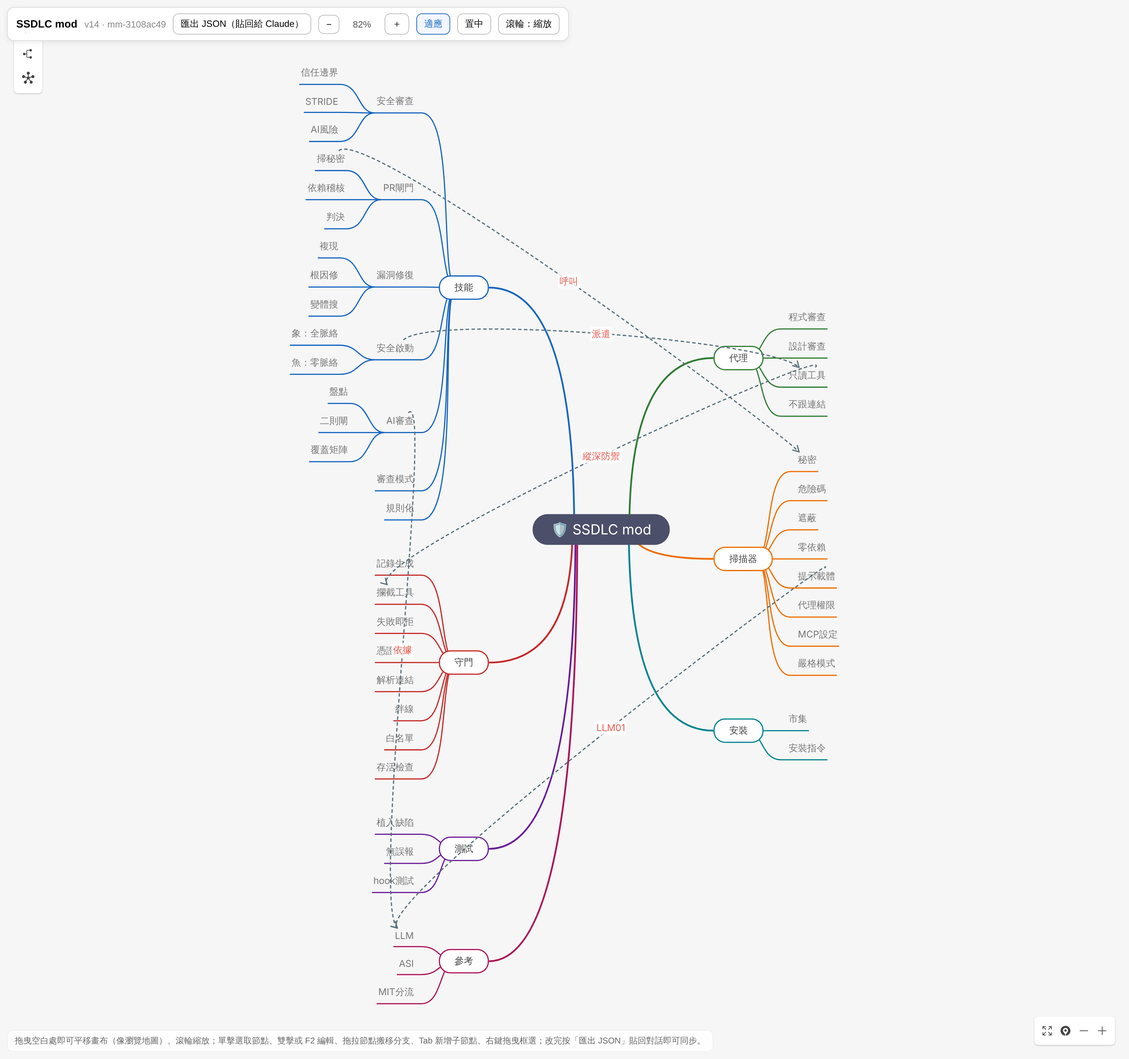
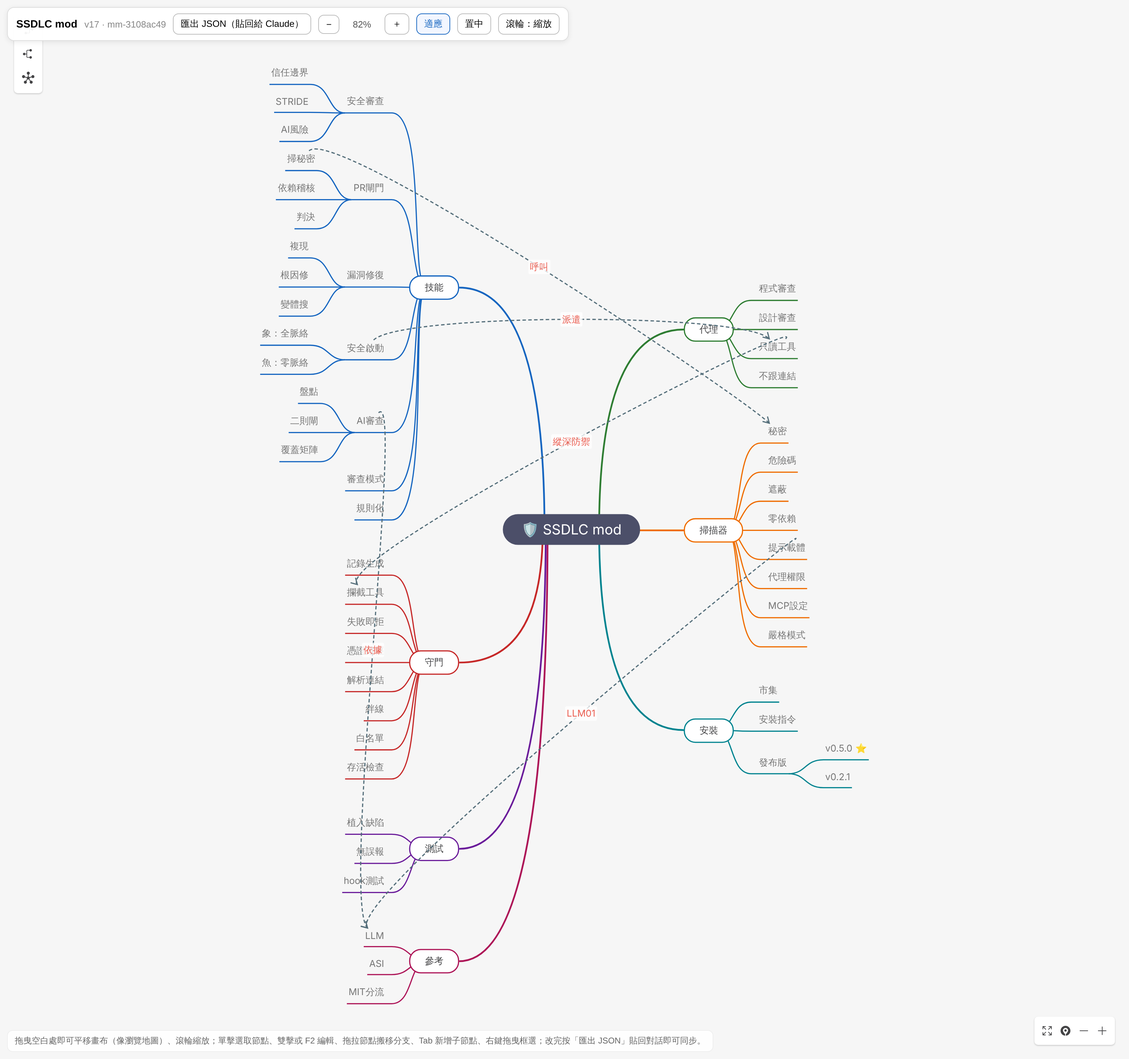
docs(mindmap): Releases node under Install (v0.5.0 latest, v0.2.1)
Node-level adds (i3, i3a, i3b) in both the Chinese and English state files;
HTML re-rendered, PNGs re-captured at fit-to-view.

Claude-Session: https://claude.ai/code/session_01R1ma2KKoemvTgjSD3ke2JF

diff --git a/docs/ssdlc-mindmap.html b/docs/ssdlc-mindmap.html
@@ -31,7 +31,7 @@
 </head>
 <body>
 <div id="topbar">
-  <b>SSDLC mod</b><span class="ver">v14 · mm-3108ac49</span>
+  <b>SSDLC mod</b><span class="ver">v17 · mm-3108ac49</span>
   <button onclick="exportFlat()">匯出 JSON（貼回給 Claude）</button>
   <button onclick="zoomStep(-1)" title="縮小">−</button><span id="zoompct" style="min-width:44px;text-align:center;color:#555;">100%</span><button onclick="zoomStep(1)" title="放大">＋</button>
   <button onclick="mind.scaleFit()" title="整張圖縮放至可視範圍">適應</button>
@@ -61,10 +61,10 @@ var MindElixir=(function(I){"use strict";const ee={name:"Latte",type:"light",pal
 
 </script>
 <script>
-const DATA = {"nodeData": {"id": "root", "topic": "🛡 SSDLC mod", "root": true, "expanded": true, "style": {"fontSize": "24px"}, "children": [{"id": "s", "topic": "技能", "expanded": true, "branchColor": "#1565C0", "children": [{"id": "s1", "topic": "安全審查", "expanded": true, "note": "/ssdlc:security-review — 10 段檢查表", "children": [{"id": "s1a", "topic": "信任邊界", "expanded": true}, {"id": "s1b", "topic": "STRIDE", "expanded": true}, {"id": "s1c", "topic": "AI風險", "expanded": true}]}, {"id": "s2", "topic": "PR閘門", "expanded": true, "note": "/ssdlc:security-gate", "children": [{"id": "s2a", "topic": "掃秘密", "expanded": true}, {"id": "s2b", "topic": "依賴稽核", "expanded": true}, {"id": "s2c", "topic": "判決", "expanded": true, "note": "PASS / WARN / BLOCK"}]}, {"id": "s3", "topic": "漏洞修復", "expanded": true, "note": "/ssdlc:vuln-fix", "children": [{"id": "s3a", "topic": "複現", "expanded": true}, {"id": "s3b", "topic": "根因修", "expanded": true}, {"id": "s3c", "topic": "變體搜", "expanded": true}]}, {"id": "s4", "topic": "安全啟動", "expanded": true, "note": "/ssdlc:safe-bootstrap — EGM 唯讀版", "children": [{"id": "s4a", "topic": "象：全脈絡", "expanded": true}, {"id": "s4b", "topic": "魚：零脈絡", "expanded": true}]}, {"id": "s5", "topic": "AI審查", "expanded": true, "note": "/ssdlc:ai-security-review — LLM01–10:2026、ASI01–10、MIT 因果格、覆蓋矩陣", "children": [{"id": "s5a", "topic": "盤點", "expanded": true}, {"id": "s5b", "topic": "二則閘", "expanded": true, "note": "Rule of Two：不可信輸入 × 機敏資料 × 改變狀態"}, {"id": "s5c", "topic": "覆蓋矩陣", "expanded": true}]}, {"id": "s6", "topic": "審查模式", "expanded": true, "note": "一般訊息 ssdlc review-mode on|off|status（終端機也可用 /ssdlc-review-mode）：主 session 只允許精確命令形式、無網路、寫檔限報告、只派 ssdlc 審查員；只有人能關閉"}, {"id": "s7", "topic": "規則化", "expanded": true, "note": "/ssdlc:rule-from-finding：確認的發現 → 規則＋植入缺陷＋安全對照＋測試（飛輪）"}]}, {"id": "a", "topic": "代理", "expanded": true, "branchColor": "#2E7D32", "children": [{"id": "a1", "topic": "程式審查", "expanded": true, "note": "ssdlc:security-reviewer"}, {"id": "a2", "topic": "設計審查", "expanded": true, "note": "ssdlc:design-reviewer"}, {"id": "a3", "topic": "只讀工具", "expanded": true, "note": "Read, Grep, Glob"}, {"id": "a4", "topic": "不跟連結", "expanded": true, "note": "repo 外連結只列出不開啟"}]}, {"id": "h", "topic": "守門", "expanded": true, "branchColor": "#C62828", "children": [{"id": "h1", "topic": "記錄生成", "expanded": true, "note": "agent.spawn：記下 ssdlc:*reviewer 的 agentId"}, {"id": "h2", "topic": "攔截工具", "expanded": true, "note": "tool.call：非 Read/Grep/Glob 一律 deny"}, {"id": "h3", "topic": "失敗即拒", "expanded": true, "note": ".catch → fail closed"}, {"id": "h4", "topic": "憑證路徑", "expanded": true, "note": "~/.ssh、~/.aws、.env*、金鑰檔；含 glob（ASI03、LLM02:2026）"}, {"id": "h5", "topic": "解析連結", "expanded": true, "note": "$.fs.stat realPath，擋 repo 內指向憑證的 symlink"}, {"id": "h6", "topic": "絆線", "expanded": true, "note": "讀憑證或用禁用工具＝tripwire → 主 session 下一個工具結果附警報 → 判 BLOCK；guard_log 可查"}, {"id": "h7", "topic": "白名單", "expanded": true, "note": "v0.4.0：審查員只能讀派遣 prompt 指名的路徑（無則工作目錄）＋ plugin 目錄"}, {"id": "h8", "topic": "存活檢查", "expanded": true, "note": "v0.5.0：guard_log 回報版本與規則自我檢查；技能派審查員前先確認，失敗即 INCOMPLETE；跨 session 歷史"}]}, {"id": "g", "topic": "掃描器", "expanded": true, "branchColor": "#EF6C00", "children": [{"id": "g1", "topic": "秘密", "expanded": true, "note": "AWS/GitHub/Anthropic/Slack/私鑰/硬編碼"}, {"id": "g2", "topic": "危險碼", "expanded": true, "note": "shell/eval/pickle/SQL/TLS/MD5"}, {"id": "g3", "topic": "遮蔽", "expanded": true, "note": "只顯示前 4 字元"}, {"id": "g4", "topic": "零依賴", "expanded": true, "note": "標準庫、不連網"}, {"id": "g5", "topic": "提示載體", "expanded": true, "note": "Unicode tag 隱寫（解碼）、零寬／bidi（LLM01:2026）"}, {"id": "g6", "topic": "代理權限", "expanded": true, "note": "bypassPermissions、autoApprove、萬用清單、REPL 工具（LLM03:2026、ASI02/05）"}, {"id": "g7", "topic": "MCP設定", "expanded": true, "note": "未鎖版本、內嵌密鑰、明文傳輸（ASI04/07）"}, {"id": "g8", "topic": "嚴格模式", "expanded": true, "note": "allow 標記預設忽略（--honor-markers 才採用，永不隱藏 secret／隱形字元）；skipped 皆列報，結束碼 3＝INCOMPLETE"}]}, {"id": "t", "topic": "測試", "expanded": true, "branchColor": "#6A1B9A", "children": [{"id": "t1", "topic": "植入缺陷", "expanded": true, "note": "53 個單元測試：每條規則皆有植入缺陷與安全對照、審查回歸測試"}, {"id": "t2", "topic": "無誤報", "expanded": true}, {"id": "t3", "topic": "hook測試", "expanded": true, "note": "28 個 hook 測試：守門、白名單、審查模式、tripwire、存活檢查、歷史"}]}, {"id": "i", "topic": "安裝", "expanded": true, "branchColor": "#00838F", "children": [{"id": "i1", "topic": "市集", "expanded": true, "note": "joescoffee/ssdlc-mod"}, {"id": "i2", "topic": "安裝指令", "expanded": true, "note": "/plugin install ssdlc --marketplace joescoffee/ssdlc-mod"}]}, {"id": "r", "topic": "參考", "expanded": true, "branchColor": "#AD1457", "children": [{"id": "r1", "topic": "LLM", "expanded": true, "note": "OWASP Top 10 for LLM Applications 2026（CC BY-SA 4.0）"}, {"id": "r2", "topic": "ASI", "expanded": true, "note": "OWASP Top 10 for Agentic Applications 2026（CC BY-SA 4.0）"}, {"id": "r3", "topic": "MIT分流", "expanded": true, "note": "AI Risk Repository V4：24 子域 A/B/C、因果情境格（CC BY 4.0）"}]}]}, "arrows": [{"id": "arrow0", "label": "派遣", "from": "s4", "to": "a3", "delta1": {"x": 60, "y": -60}, "delta2": {"x": -60, "y": -60}, "style": {"stroke": "#546E7A", "strokeDasharray": "6 4", "strokeWidth": 2}}, {"id": "arrow1", "label": "縱深防禦", "from": "a3", "to": "h2", "delta1": {"x": 60, "y": -60}, "delta2": {"x": -60, "y": -60}, "style": {"stroke": "#546E7A", "strokeDasharray": "6 4", "strokeWidth": 2}}, {"id": "arrow2", "label": "呼叫", "from": "s2a", "to": "g1", "delta1": {"x": 60, "y": -60}, "delta2": {"x": -60, "y": -60}, "style": {"stroke": "#546E7A", "strokeDasharray": "6 4", "strokeWidth": 2}}, {"id": "arrow3", "label": "依據", "from": "s5", "to": "r1", "delta1": {"x": 60, "y": -60}, "delta2": {"x": -60, "y": -60}, "style": {"stroke": "#546E7A", "strokeDasharray": "6 4", "strokeWidth": 2}}, {"id": "arrow4", "label": "LLM01", "from": "g5", "to": "r1", "delta1": {"x": 60, "y": -60}, "delta2": {"x": -60, "y": -60}, "style": {"stroke": "#546E7A", "strokeDasharray": "6 4", "strokeWidth": 2}}], "direction": 2, "theme": {"name": "mindmap-skill", "type": "light", "palette": ["#1565C0", "#2E7D32", "#C62828", "#EF6C00", "#6A1B9A", "#00838F", "#AD1457"]}};
-const META = {"map_id": "mm-3108ac49", "title": "SSDLC mod", "central_image": "🛡", "mode": "bloom", "version": 14, "created": "2026-11-01T04:54:12+00:00", "id_seq": 0, "updated": "2026-11-01T12:05:33+00:00"};
-const HISTORY = [{"v": 1, "action": "new", "ids": ["root"], "at": "2026-11-01T04:54:12+00:00"}, {"v": 2, "action": "apply(40)", "ids": ["s", "s1", "s1a", "s1b", "s1c", "s2", "s2a", "s2b", "s2c", "s3", "s3a", "s3b", "s3c", "s4", "s4a", "s4b", "a", "a1", "a2", "a3", "a4", "h", "h1", "h2", "h3", "g", "g1", "g2", "g3", "g4", "t", "t1", "t2", "t3", "i", "i1", "i2", "s4->a3", "a3->h2", "s2a->g1"], "at": "2026-11-01T04:54:12+00:00"}, {"v": 3, "action": "update", "ids": ["i2"], "at": "2026-11-01T04:54:16+00:00"}, {"v": 4, "action": "apply(16)", "ids": ["s5", "s5a", "s5b", "s5c", "h4", "h5", "g5", "g6", "g7", "g8", "r", "r1", "r2", "r3", "s5->r1", "g5->r1"], "at": "2026-11-01T05:47:18+00:00"}, {"v": 5, "action": "update", "ids": ["t1"], "at": "2026-11-01T05:47:18+00:00"}, {"v": 6, "action": "update", "ids": ["t3"], "at": "2026-11-01T05:47:18+00:00"}, {"v": 7, "action": "update", "ids": ["r1"], "at": "2026-11-01T05:47:27+00:00"}, {"v": 8, "action": "update", "ids": ["r2"], "at": "2026-11-01T05:47:27+00:00"}, {"v": 9, "action": "apply(3)", "ids": ["s6", "s7", "h6"], "at": "2026-11-01T06:12:50+00:00"}, {"v": 10, "action": "apply(2)", "ids": ["h7", "h8"], "at": "2026-11-01T09:21:57+00:00"}, {"v": 11, "action": "update", "ids": ["t1"], "at": "2026-11-01T12:05:33+00:00"}, {"v": 12, "action": "update", "ids": ["t3"], "at": "2026-11-01T12:05:33+00:00"}, {"v": 13, "action": "update", "ids": ["g8"], "at": "2026-11-01T12:05:33+00:00"}, {"v": 14, "action": "update", "ids": ["s6"], "at": "2026-11-01T12:05:33+00:00"}];
-const SOURCE_MAP = {};
+const DATA = {"nodeData": {"id": "root", "topic": "🛡 SSDLC mod", "root": true, "expanded": true, "style": {"fontSize": "24px"}, "children": [{"id": "s", "topic": "技能", "expanded": true, "branchColor": "#1565C0", "children": [{"id": "s1", "topic": "安全審查", "expanded": true, "note": "/ssdlc:security-review — 10 段檢查表", "children": [{"id": "s1a", "topic": "信任邊界", "expanded": true}, {"id": "s1b", "topic": "STRIDE", "expanded": true}, {"id": "s1c", "topic": "AI風險", "expanded": true}]}, {"id": "s2", "topic": "PR閘門", "expanded": true, "note": "/ssdlc:security-gate", "children": [{"id": "s2a", "topic": "掃秘密", "expanded": true}, {"id": "s2b", "topic": "依賴稽核", "expanded": true}, {"id": "s2c", "topic": "判決", "expanded": true, "note": "PASS / WARN / BLOCK"}]}, {"id": "s3", "topic": "漏洞修復", "expanded": true, "note": "/ssdlc:vuln-fix", "children": [{"id": "s3a", "topic": "複現", "expanded": true}, {"id": "s3b", "topic": "根因修", "expanded": true}, {"id": "s3c", "topic": "變體搜", "expanded": true}]}, {"id": "s4", "topic": "安全啟動", "expanded": true, "note": "/ssdlc:safe-bootstrap — EGM 唯讀版", "children": [{"id": "s4a", "topic": "象：全脈絡", "expanded": true}, {"id": "s4b", "topic": "魚：零脈絡", "expanded": true}]}, {"id": "s5", "topic": "AI審查", "expanded": true, "note": "/ssdlc:ai-security-review — LLM01–10:2026、ASI01–10、MIT 因果格、覆蓋矩陣", "children": [{"id": "s5a", "topic": "盤點", "expanded": true}, {"id": "s5b", "topic": "二則閘", "expanded": true, "note": "Rule of Two：不可信輸入 × 機敏資料 × 改變狀態"}, {"id": "s5c", "topic": "覆蓋矩陣", "expanded": true}]}, {"id": "s6", "topic": "審查模式", "expanded": true, "note": "一般訊息 ssdlc review-mode on|off|status（終端機也可用 /ssdlc-review-mode）：主 session 只允許精確命令形式、無網路、寫檔限報告、只派 ssdlc 審查員；只有人能關閉"}, {"id": "s7", "topic": "規則化", "expanded": true, "note": "/ssdlc:rule-from-finding：確認的發現 → 規則＋植入缺陷＋安全對照＋測試（飛輪）"}]}, {"id": "a", "topic": "代理", "expanded": true, "branchColor": "#2E7D32", "children": [{"id": "a1", "topic": "程式審查", "expanded": true, "note": "ssdlc:security-reviewer"}, {"id": "a2", "topic": "設計審查", "expanded": true, "note": "ssdlc:design-reviewer"}, {"id": "a3", "topic": "只讀工具", "expanded": true, "note": "Read, Grep, Glob"}, {"id": "a4", "topic": "不跟連結", "expanded": true, "note": "repo 外連結只列出不開啟"}]}, {"id": "h", "topic": "守門", "expanded": true, "branchColor": "#C62828", "children": [{"id": "h1", "topic": "記錄生成", "expanded": true, "note": "agent.spawn：記下 ssdlc:*reviewer 的 agentId"}, {"id": "h2", "topic": "攔截工具", "expanded": true, "note": "tool.call：非 Read/Grep/Glob 一律 deny"}, {"id": "h3", "topic": "失敗即拒", "expanded": true, "note": ".catch → fail closed"}, {"id": "h4", "topic": "憑證路徑", "expanded": true, "note": "~/.ssh、~/.aws、.env*、金鑰檔；含 glob（ASI03、LLM02:2026）"}, {"id": "h5", "topic": "解析連結", "expanded": true, "note": "$.fs.stat realPath，擋 repo 內指向憑證的 symlink"}, {"id": "h6", "topic": "絆線", "expanded": true, "note": "讀憑證或用禁用工具＝tripwire → 主 session 下一個工具結果附警報 → 判 BLOCK；guard_log 可查"}, {"id": "h7", "topic": "白名單", "expanded": true, "note": "v0.4.0：審查員只能讀派遣 prompt 指名的路徑（無則工作目錄）＋ plugin 目錄"}, {"id": "h8", "topic": "存活檢查", "expanded": true, "note": "v0.5.0：guard_log 回報版本與規則自我檢查；技能派審查員前先確認，失敗即 INCOMPLETE；跨 session 歷史"}]}, {"id": "g", "topic": "掃描器", "expanded": true, "branchColor": "#EF6C00", "children": [{"id": "g1", "topic": "秘密", "expanded": true, "note": "AWS/GitHub/Anthropic/Slack/私鑰/硬編碼"}, {"id": "g2", "topic": "危險碼", "expanded": true, "note": "shell/eval/pickle/SQL/TLS/MD5"}, {"id": "g3", "topic": "遮蔽", "expanded": true, "note": "只顯示前 4 字元"}, {"id": "g4", "topic": "零依賴", "expanded": true, "note": "標準庫、不連網"}, {"id": "g5", "topic": "提示載體", "expanded": true, "note": "Unicode tag 隱寫（解碼）、零寬／bidi（LLM01:2026）"}, {"id": "g6", "topic": "代理權限", "expanded": true, "note": "bypassPermissions、autoApprove、萬用清單、REPL 工具（LLM03:2026、ASI02/05）"}, {"id": "g7", "topic": "MCP設定", "expanded": true, "note": "未鎖版本、內嵌密鑰、明文傳輸（ASI04/07）"}, {"id": "g8", "topic": "嚴格模式", "expanded": true, "note": "allow 標記預設忽略（--honor-markers 才採用，永不隱藏 secret／隱形字元）；skipped 皆列報，結束碼 3＝INCOMPLETE"}]}, {"id": "t", "topic": "測試", "expanded": true, "branchColor": "#6A1B9A", "children": [{"id": "t1", "topic": "植入缺陷", "expanded": true, "note": "53 個單元測試：每條規則皆有植入缺陷與安全對照、審查回歸測試"}, {"id": "t2", "topic": "無誤報", "expanded": true}, {"id": "t3", "topic": "hook測試", "expanded": true, "note": "28 個 hook 測試：守門、白名單、審查模式、tripwire、存活檢查、歷史"}]}, {"id": "i", "topic": "安裝", "expanded": true, "branchColor": "#00838F", "children": [{"id": "i1", "topic": "市集", "expanded": true, "note": "joescoffee/ssdlc-mod"}, {"id": "i2", "topic": "安裝指令", "expanded": true, "note": "/plugin install ssdlc --marketplace joescoffee/ssdlc-mod"}, {"id": "i3", "topic": "發布版", "expanded": true, "note": "GitHub Releases：每版中英雙語發布說明；README 徽章顯示最新版", "children": [{"id": "i3a", "topic": "v0.5.0", "expanded": true, "note": "最新版（Latest），tag 指向 004c352", "icons": ["⭐"]}, {"id": "i3b", "topic": "v0.2.1", "expanded": true, "note": "補發的歷史版本，tag 指向 9a1ff5b"}]}]}, {"id": "r", "topic": "參考", "expanded": true, "branchColor": "#AD1457", "children": [{"id": "r1", "topic": "LLM", "expanded": true, "note": "OWASP Top 10 for LLM Applications 2026（CC BY-SA 4.0）"}, {"id": "r2", "topic": "ASI", "expanded": true, "note": "OWASP Top 10 for Agentic Applications 2026（CC BY-SA 4.0）"}, {"id": "r3", "topic": "MIT分流", "expanded": true, "note": "AI Risk Repository V4：24 子域 A/B/C、因果情境格（CC BY 4.0）"}]}]}, "arrows": [{"id": "arrow0", "label": "派遣", "from": "s4", "to": "a3", "delta1": {"x": 60, "y": -60}, "delta2": {"x": -60, "y": -60}, "style": {"stroke": "#546E7A", "strokeDasharray": "6 4", "strokeWidth": 2}}, {"id": "arrow1", "label": "縱深防禦", "from": "a3", "to": "h2", "delta1": {"x": 60, "y": -60}, "delta2": {"x": -60, "y": -60}, "style": {"stroke": "#546E7A", "strokeDasharray": "6 4", "strokeWidth": 2}}, {"id": "arrow2", "label": "呼叫", "from": "s2a", "to": "g1", "delta1": {"x": 60, "y": -60}, "delta2": {"x": -60, "y": -60}, "style": {"stroke": "#546E7A", "strokeDasharray": "6 4", "strokeWidth": 2}}, {"id": "arrow3", "label": "依據", "from": "s5", "to": "r1", "delta1": {"x": 60, "y": -60}, "delta2": {"x": -60, "y": -60}, "style": {"stroke": "#546E7A", "strokeDasharray": "6 4", "strokeWidth": 2}}, {"id": "arrow4", "label": "LLM01", "from": "g5", "to": "r1", "delta1": {"x": 60, "y": -60}, "delta2": {"x": -60, "y": -60}, "style": {"stroke": "#546E7A", "strokeDasharray": "6 4", "strokeWidth": 2}}], "direction": 2, "theme": {"name": "mindmap-skill", "type": "light", "palette": ["#1565C0", "#2E7D32", "#C62828", "#EF6C00", "#6A1B9A", "#00838F", "#AD1457"]}};
+const META = {"map_id": "mm-3108ac49", "title": "SSDLC mod", "central_image": "🛡", "mode": "bloom", "version": 17, "created": "2026-11-01T04:54:12+00:00", "id_seq": 0, "updated": "2026-11-01T14:43:02+00:00"};
+const HISTORY = [{"v": 1, "action": "new", "ids": ["root"], "at": "2026-11-01T04:54:12+00:00"}, {"v": 2, "action": "apply(40)", "ids": ["s", "s1", "s1a", "s1b", "s1c", "s2", "s2a", "s2b", "s2c", "s3", "s3a", "s3b", "s3c", "s4", "s4a", "s4b", "a", "a1", "a2", "a3", "a4", "h", "h1", "h2", "h3", "g", "g1", "g2", "g3", "g4", "t", "t1", "t2", "t3", "i", "i1", "i2", "s4->a3", "a3->h2", "s2a->g1"], "at": "2026-11-01T04:54:12+00:00"}, {"v": 3, "action": "update", "ids": ["i2"], "at": "2026-11-01T04:54:16+00:00"}, {"v": 4, "action": "apply(16)", "ids": ["s5", "s5a", "s5b", "s5c", "h4", "h5", "g5", "g6", "g7", "g8", "r", "r1", "r2", "r3", "s5->r1", "g5->r1"], "at": "2026-11-01T05:47:18+00:00"}, {"v": 5, "action": "update", "ids": ["t1"], "at": "2026-11-01T05:47:18+00:00"}, {"v": 6, "action": "update", "ids": ["t3"], "at": "2026-11-01T05:47:18+00:00"}, {"v": 7, "action": "update", "ids": ["r1"], "at": "2026-11-01T05:47:27+00:00"}, {"v": 8, "action": "update", "ids": ["r2"], "at": "2026-11-01T05:47:27+00:00"}, {"v": 9, "action": "apply(3)", "ids": ["s6", "s7", "h6"], "at": "2026-11-01T06:12:50+00:00"}, {"v": 10, "action": "apply(2)", "ids": ["h7", "h8"], "at": "2026-11-01T09:21:57+00:00"}, {"v": 11, "action": "update", "ids": ["t1"], "at": "2026-11-01T12:05:33+00:00"}, {"v": 12, "action": "update", "ids": ["t3"], "at": "2026-11-01T12:05:33+00:00"}, {"v": 13, "action": "update", "ids": ["g8"], "at": "2026-11-01T12:05:33+00:00"}, {"v": 14, "action": "update", "ids": ["s6"], "at": "2026-11-01T12:05:33+00:00"}, {"v": 15, "action": "add", "ids": ["i3"], "at": "2026-11-01T14:43:02+00:00"}, {"v": 16, "action": "add", "ids": ["i3a"], "at": "2026-11-01T14:43:02+00:00"}, {"v": 17, "action": "add", "ids": ["i3b"], "at": "2026-11-01T14:43:02+00:00"}];
+const SOURCE_MAP = {"i3": "github.com/joescoffee/ssdlc-mod/releases"};
 
 // 地圖式導覽：滾輪預設縮放（以游標為錨點），可切換為平移（觸控板雙指捲動慣用）
 let wheelMode = 'zoom';

diff --git a/docs/ssdlc-mindmap.en.html b/docs/ssdlc-mindmap.en.html
@@ -31,7 +31,7 @@
 </head>
 <body>
 <div id="topbar">
-  <b>SSDLC mod</b><span class="ver">v2 · mm-85ff9aaa</span>
+  <b>SSDLC mod</b><span class="ver">v5 · mm-85ff9aaa</span>
   <button onclick="exportFlat()">匯出 JSON（貼回給 Claude）</button>
   <button onclick="zoomStep(-1)" title="縮小">−</button><span id="zoompct" style="min-width:44px;text-align:center;color:#555;">100%</span><button onclick="zoomStep(1)" title="放大">＋</button>
   <button onclick="mind.scaleFit()" title="整張圖縮放至可視範圍">適應</button>
@@ -61,10 +61,10 @@ var MindElixir=(function(I){"use strict";const ee={name:"Latte",type:"light",pal
 
 </script>
 <script>
-const DATA = {"nodeData": {"id": "root", "topic": "🛡 SSDLC mod", "root": true, "expanded": true, "style": {"fontSize": "24px"}, "children": [{"id": "s", "topic": "Skills", "expanded": true, "branchColor": "#1565C0", "children": [{"id": "s1", "topic": "Security review", "expanded": true, "note": "/ssdlc:security-review — 10-area checklist", "children": [{"id": "s1a", "topic": "Trust boundaries", "expanded": true}, {"id": "s1b", "topic": "STRIDE", "expanded": true}, {"id": "s1c", "topic": "AI risks", "expanded": true}]}, {"id": "s2", "topic": "PR gate", "expanded": true, "note": "/ssdlc:security-gate", "children": [{"id": "s2a", "topic": "Secret scan", "expanded": true}, {"id": "s2b", "topic": "Dep audit", "expanded": true}, {"id": "s2c", "topic": "Verdict", "expanded": true, "note": "PASS / WARN / BLOCK / INCOMPLETE"}]}, {"id": "s3", "topic": "Vuln fix", "expanded": true, "note": "/ssdlc:vuln-fix", "children": [{"id": "s3a", "topic": "Reproduce", "expanded": true}, {"id": "s3b", "topic": "Root cause", "expanded": true}, {"id": "s3c", "topic": "Variants", "expanded": true}]}, {"id": "s4", "topic": "Safe bootstrap", "expanded": true, "note": "/ssdlc:safe-bootstrap — read-only EGM", "children": [{"id": "s4a", "topic": "Elephant: full context", "expanded": true}, {"id": "s4b", "topic": "Goldfish: zero context", "expanded": true}]}, {"id": "s5", "topic": "AI review", "expanded": true, "note": "/ssdlc:ai-security-review — LLM01–10:2026, ASI01–10, MIT causal grid, coverage matrix", "children": [{"id": "s5a", "topic": "Inventory", "expanded": true}, {"id": "s5b", "topic": "Rule of Two", "expanded": true, "note": "Rule of Two: untrusted input × sensitive data × state change"}, {"id": "s5c", "topic": "Coverage matrix", "expanded": true}]}, {"id": "s6", "topic": "Review mode", "expanded": true, "note": "plain message ssdlc review-mode on|off|status (or /ssdlc-review-mode in a terminal): main session limited to exact command forms, no network, report-only writes, ssdlc reviewers only; only a person can switch it off"}, {"id": "s7", "topic": "Codify findings", "expanded": true, "note": "/ssdlc:rule-from-finding: confirmed finding → rule + planted defect + safe counterpart + tests (flywheel)"}]}, {"id": "a", "topic": "Agents", "expanded": true, "branchColor": "#2E7D32", "children": [{"id": "a1", "topic": "Code review", "expanded": true, "note": "ssdlc:security-reviewer"}, {"id": "a2", "topic": "Design review", "expanded": true, "note": "ssdlc:design-reviewer"}, {"id": "a3", "topic": "Read-only tools", "expanded": true, "note": "Read, Grep, Glob"}, {"id": "a4", "topic": "No link following", "expanded": true, "note": "out-of-repo links are listed, never opened"}]}, {"id": "h", "topic": "Guard", "expanded": true, "branchColor": "#C62828", "children": [{"id": "h1", "topic": "Track spawns", "expanded": true, "note": "agent.spawn: records the agentId of ssdlc:*reviewer"}, {"id": "h2", "topic": "Block tools", "expanded": true, "note": "tool.call: anything but Read/Grep/Glob is denied"}, {"id": "h3", "topic": "Fail closed", "expanded": true, "note": ".catch → fail closed"}, {"id": "h4", "topic": "Credential paths", "expanded": true, "note": "~/.ssh, ~/.aws, .env*, key files; globs too (ASI03, LLM02:2026)"}, {"id": "h5", "topic": "Resolve links", "expanded": true, "note": "$.fs.stat realPath blocks in-repo symlinks to credentials"}, {"id": "h6", "topic": "Tripwire", "expanded": true, "note": "credential read or forbidden tool = tripwire → alert on the main session's next tool result → BLOCK; see guard_log"}, {"id": "h7", "topic": "Allow-list", "expanded": true, "note": "v0.4.0: reviewers read only paths named in the dispatching prompt (else the working directory) + the plugin folder"}, {"id": "h8", "topic": "Liveness check", "expanded": true, "note": "v0.5.0: guard_log reports version and a rule self-test; skills check it before spawning reviewers, INCOMPLETE on failure; cross-session history"}]}, {"id": "g", "topic": "Scanner", "expanded": true, "branchColor": "#EF6C00", "children": [{"id": "g1", "topic": "Secrets", "expanded": true, "note": "AWS / GitHub / Anthropic / Slack / private keys / hard-coded"}, {"id": "g2", "topic": "Dangerous code", "expanded": true, "note": "shell / eval / pickle / SQL / TLS / MD5"}, {"id": "g3", "topic": "Redaction", "expanded": true, "note": "only the first 4 characters are shown"}, {"id": "g4", "topic": "No deps", "expanded": true, "note": "standard library only, no network"}, {"id": "g5", "topic": "Prompt carriers", "expanded": true, "note": "Unicode tag smuggling (decoded), zero-width / bidi (LLM01:2026)"}, {"id": "g6", "topic": "Agent perms", "expanded": true, "note": "bypassPermissions, autoApprove, wildcard allow-lists, REPL tools (LLM03:2026, ASI02/05)"}, {"id": "g7", "topic": "MCP config", "expanded": true, "note": "unpinned versions, inline secrets, plaintext transport (ASI04/07)"}, {"id": "g8", "topic": "Strict by default", "expanded": true, "note": "allow markers ignored by default (--honor-markers to apply; never hide secrets / invisible chars); skipped files listed, exit 3 = INCOMPLETE"}]}, {"id": "t", "topic": "Tests", "expanded": true, "branchColor": "#6A1B9A", "children": [{"id": "t1", "topic": "Planted defects", "expanded": true, "note": "53 unit tests: a planted defect and a safe counterpart per rule, review regressions"}, {"id": "t2", "topic": "No false positives", "expanded": true}, {"id": "t3", "topic": "Hook tests", "expanded": true, "note": "28 hook tests: guard, allow-list, review mode, tripwire, liveness, history"}]}, {"id": "i", "topic": "Install", "expanded": true, "branchColor": "#00838F", "children": [{"id": "i1", "topic": "Marketplace", "expanded": true, "note": "joescoffee/ssdlc-mod"}, {"id": "i2", "topic": "Install command", "expanded": true, "note": "claude plugin install ssdlc --marketplace joescoffee/ssdlc-mod"}]}, {"id": "r", "topic": "References", "expanded": true, "branchColor": "#AD1457", "children": [{"id": "r1", "topic": "LLM", "expanded": true, "note": "OWASP Top 10 for LLM Applications 2026 (CC BY-SA 4.0)"}, {"id": "r2", "topic": "ASI", "expanded": true, "note": "OWASP Top 10 for Agentic Applications 2026 (CC BY-SA 4.0)"}, {"id": "r3", "topic": "MIT triage", "expanded": true, "note": "AI Risk Repository V4: 24 subdomains A/B/C, causal scenario grid (CC BY 4.0)"}]}]}, "arrows": [{"id": "arrow0", "label": "dispatches", "from": "s4", "to": "a3", "delta1": {"x": 60, "y": -60}, "delta2": {"x": -60, "y": -60}, "style": {"stroke": "#546E7A", "strokeDasharray": "6 4", "strokeWidth": 2}}, {"id": "arrow1", "label": "defense in depth", "from": "a3", "to": "h2", "delta1": {"x": 60, "y": -60}, "delta2": {"x": -60, "y": -60}, "style": {"stroke": "#546E7A", "strokeDasharray": "6 4", "strokeWidth": 2}}, {"id": "arrow2", "label": "calls", "from": "s2a", "to": "g1", "delta1": {"x": 60, "y": -60}, "delta2": {"x": -60, "y": -60}, "style": {"stroke": "#546E7A", "strokeDasharray": "6 4", "strokeWidth": 2}}, {"id": "arrow3", "label": "based on", "from": "s5", "to": "r1", "delta1": {"x": 60, "y": -60}, "delta2": {"x": -60, "y": -60}, "style": {"stroke": "#546E7A", "strokeDasharray": "6 4", "strokeWidth": 2}}, {"id": "arrow4", "label": "LLM01", "from": "g5", "to": "r1", "delta1": {"x": 60, "y": -60}, "delta2": {"x": -60, "y": -60}, "style": {"stroke": "#546E7A", "strokeDasharray": "6 4", "strokeWidth": 2}}], "direction": 2, "theme": {"name": "mindmap-skill", "type": "light", "palette": ["#1565C0", "#2E7D32", "#C62828", "#EF6C00", "#6A1B9A", "#00838F", "#AD1457"]}};
-const META = {"map_id": "mm-85ff9aaa", "title": "SSDLC mod", "central_image": "🛡", "mode": "bloom", "version": 2, "created": "2026-11-01T12:05:57+00:00", "id_seq": 0, "updated": "2026-11-01T12:05:57+00:00"};
-const HISTORY = [{"v": 1, "action": "new", "ids": ["root"], "at": "2026-11-01T12:05:57+00:00"}, {"v": 2, "action": "apply(61)", "ids": ["s", "a", "h", "g", "t", "i", "r", "s1", "a1", "h1", "g1", "t1", "i1", "r1", "s2", "a2", "h2", "g2", "t2", "i2", "r2", "s3", "a3", "h3", "g3", "t3", "r3", "s4", "a4", "g4", "h4", "s5", "h5", "g5", "g6", "s6", "h6", "g7", "s7", "h7", "g8", "h8", "s1a", "s2a", "s3a", "s4a", "s5a", "s1b", "s2b", "s3b", "s4b", "s5b", "s1c", "s2c", "s3c", "s5c", "s4->a3", "a3->h2", "s2a->g1", "s5->r1", "g5->r1"], "at": "2026-11-01T12:05:57+00:00"}];
-const SOURCE_MAP = {};
+const DATA = {"nodeData": {"id": "root", "topic": "🛡 SSDLC mod", "root": true, "expanded": true, "style": {"fontSize": "24px"}, "children": [{"id": "s", "topic": "Skills", "expanded": true, "branchColor": "#1565C0", "children": [{"id": "s1", "topic": "Security review", "expanded": true, "note": "/ssdlc:security-review — 10-area checklist", "children": [{"id": "s1a", "topic": "Trust boundaries", "expanded": true}, {"id": "s1b", "topic": "STRIDE", "expanded": true}, {"id": "s1c", "topic": "AI risks", "expanded": true}]}, {"id": "s2", "topic": "PR gate", "expanded": true, "note": "/ssdlc:security-gate", "children": [{"id": "s2a", "topic": "Secret scan", "expanded": true}, {"id": "s2b", "topic": "Dep audit", "expanded": true}, {"id": "s2c", "topic": "Verdict", "expanded": true, "note": "PASS / WARN / BLOCK / INCOMPLETE"}]}, {"id": "s3", "topic": "Vuln fix", "expanded": true, "note": "/ssdlc:vuln-fix", "children": [{"id": "s3a", "topic": "Reproduce", "expanded": true}, {"id": "s3b", "topic": "Root cause", "expanded": true}, {"id": "s3c", "topic": "Variants", "expanded": true}]}, {"id": "s4", "topic": "Safe bootstrap", "expanded": true, "note": "/ssdlc:safe-bootstrap — read-only EGM", "children": [{"id": "s4a", "topic": "Elephant: full context", "expanded": true}, {"id": "s4b", "topic": "Goldfish: zero context", "expanded": true}]}, {"id": "s5", "topic": "AI review", "expanded": true, "note": "/ssdlc:ai-security-review — LLM01–10:2026, ASI01–10, MIT causal grid, coverage matrix", "children": [{"id": "s5a", "topic": "Inventory", "expanded": true}, {"id": "s5b", "topic": "Rule of Two", "expanded": true, "note": "Rule of Two: untrusted input × sensitive data × state change"}, {"id": "s5c", "topic": "Coverage matrix", "expanded": true}]}, {"id": "s6", "topic": "Review mode", "expanded": true, "note": "plain message ssdlc review-mode on|off|status (or /ssdlc-review-mode in a terminal): main session limited to exact command forms, no network, report-only writes, ssdlc reviewers only; only a person can switch it off"}, {"id": "s7", "topic": "Codify findings", "expanded": true, "note": "/ssdlc:rule-from-finding: confirmed finding → rule + planted defect + safe counterpart + tests (flywheel)"}]}, {"id": "a", "topic": "Agents", "expanded": true, "branchColor": "#2E7D32", "children": [{"id": "a1", "topic": "Code review", "expanded": true, "note": "ssdlc:security-reviewer"}, {"id": "a2", "topic": "Design review", "expanded": true, "note": "ssdlc:design-reviewer"}, {"id": "a3", "topic": "Read-only tools", "expanded": true, "note": "Read, Grep, Glob"}, {"id": "a4", "topic": "No link following", "expanded": true, "note": "out-of-repo links are listed, never opened"}]}, {"id": "h", "topic": "Guard", "expanded": true, "branchColor": "#C62828", "children": [{"id": "h1", "topic": "Track spawns", "expanded": true, "note": "agent.spawn: records the agentId of ssdlc:*reviewer"}, {"id": "h2", "topic": "Block tools", "expanded": true, "note": "tool.call: anything but Read/Grep/Glob is denied"}, {"id": "h3", "topic": "Fail closed", "expanded": true, "note": ".catch → fail closed"}, {"id": "h4", "topic": "Credential paths", "expanded": true, "note": "~/.ssh, ~/.aws, .env*, key files; globs too (ASI03, LLM02:2026)"}, {"id": "h5", "topic": "Resolve links", "expanded": true, "note": "$.fs.stat realPath blocks in-repo symlinks to credentials"}, {"id": "h6", "topic": "Tripwire", "expanded": true, "note": "credential read or forbidden tool = tripwire → alert on the main session's next tool result → BLOCK; see guard_log"}, {"id": "h7", "topic": "Allow-list", "expanded": true, "note": "v0.4.0: reviewers read only paths named in the dispatching prompt (else the working directory) + the plugin folder"}, {"id": "h8", "topic": "Liveness check", "expanded": true, "note": "v0.5.0: guard_log reports version and a rule self-test; skills check it before spawning reviewers, INCOMPLETE on failure; cross-session history"}]}, {"id": "g", "topic": "Scanner", "expanded": true, "branchColor": "#EF6C00", "children": [{"id": "g1", "topic": "Secrets", "expanded": true, "note": "AWS / GitHub / Anthropic / Slack / private keys / hard-coded"}, {"id": "g2", "topic": "Dangerous code", "expanded": true, "note": "shell / eval / pickle / SQL / TLS / MD5"}, {"id": "g3", "topic": "Redaction", "expanded": true, "note": "only the first 4 characters are shown"}, {"id": "g4", "topic": "No deps", "expanded": true, "note": "standard library only, no network"}, {"id": "g5", "topic": "Prompt carriers", "expanded": true, "note": "Unicode tag smuggling (decoded), zero-width / bidi (LLM01:2026)"}, {"id": "g6", "topic": "Agent perms", "expanded": true, "note": "bypassPermissions, autoApprove, wildcard allow-lists, REPL tools (LLM03:2026, ASI02/05)"}, {"id": "g7", "topic": "MCP config", "expanded": true, "note": "unpinned versions, inline secrets, plaintext transport (ASI04/07)"}, {"id": "g8", "topic": "Strict by default", "expanded": true, "note": "allow markers ignored by default (--honor-markers to apply; never hide secrets / invisible chars); skipped files listed, exit 3 = INCOMPLETE"}]}, {"id": "t", "topic": "Tests", "expanded": true, "branchColor": "#6A1B9A", "children": [{"id": "t1", "topic": "Planted defects", "expanded": true, "note": "53 unit tests: a planted defect and a safe counterpart per rule, review regressions"}, {"id": "t2", "topic": "No false positives", "expanded": true}, {"id": "t3", "topic": "Hook tests", "expanded": true, "note": "28 hook tests: guard, allow-list, review mode, tripwire, liveness, history"}]}, {"id": "i", "topic": "Install", "expanded": true, "branchColor": "#00838F", "children": [{"id": "i1", "topic": "Marketplace", "expanded": true, "note": "joescoffee/ssdlc-mod"}, {"id": "i2", "topic": "Install command", "expanded": true, "note": "claude plugin install ssdlc --marketplace joescoffee/ssdlc-mod"}, {"id": "i3", "topic": "Releases", "expanded": true, "note": "GitHub Releases: bilingual release notes for every version; the README badge shows the latest", "children": [{"id": "i3a", "topic": "v0.5.0", "expanded": true, "note": "Latest release; tag at 004c352", "icons": ["⭐"]}, {"id": "i3b", "topic": "v0.2.1", "expanded": true, "note": "Backfilled historical release; tag at 9a1ff5b"}]}]}, {"id": "r", "topic": "References", "expanded": true, "branchColor": "#AD1457", "children": [{"id": "r1", "topic": "LLM", "expanded": true, "note": "OWASP Top 10 for LLM Applications 2026 (CC BY-SA 4.0)"}, {"id": "r2", "topic": "ASI", "expanded": true, "note": "OWASP Top 10 for Agentic Applications 2026 (CC BY-SA 4.0)"}, {"id": "r3", "topic": "MIT triage", "expanded": true, "note": "AI Risk Repository V4: 24 subdomains A/B/C, causal scenario grid (CC BY 4.0)"}]}]}, "arrows": [{"id": "arrow0", "label": "dispatches", "from": "s4", "to": "a3", "delta1": {"x": 60, "y": -60}, "delta2": {"x": -60, "y": -60}, "style": {"stroke": "#546E7A", "strokeDasharray": "6 4", "strokeWidth": 2}}, {"id": "arrow1", "label": "defense in depth", "from": "a3", "to": "h2", "delta1": {"x": 60, "y": -60}, "delta2": {"x": -60, "y": -60}, "style": {"stroke": "#546E7A", "strokeDasharray": "6 4", "strokeWidth": 2}}, {"id": "arrow2", "label": "calls", "from": "s2a", "to": "g1", "delta1": {"x": 60, "y": -60}, "delta2": {"x": -60, "y": -60}, "style": {"stroke": "#546E7A", "strokeDasharray": "6 4", "strokeWidth": 2}}, {"id": "arrow3", "label": "based on", "from": "s5", "to": "r1", "delta1": {"x": 60, "y": -60}, "delta2": {"x": -60, "y": -60}, "style": {"stroke": "#546E7A", "strokeDasharray": "6 4", "strokeWidth": 2}}, {"id": "arrow4", "label": "LLM01", "from": "g5", "to": "r1", "delta1": {"x": 60, "y": -60}, "delta2": {"x": -60, "y": -60}, "style": {"stroke": "#546E7A", "strokeDasharray": "6 4", "strokeWidth": 2}}], "direction": 2, "theme": {"name": "mindmap-skill", "type": "light", "palette": ["#1565C0", "#2E7D32", "#C62828", "#EF6C00", "#6A1B9A", "#00838F", "#AD1457"]}};
+const META = {"map_id": "mm-85ff9aaa", "title": "SSDLC mod", "central_image": "🛡", "mode": "bloom", "version": 5, "created": "2026-11-01T12:05:57+00:00", "id_seq": 0, "updated": "2026-11-01T14:43:02+00:00"};
+const HISTORY = [{"v": 1, "action": "new", "ids": ["root"], "at": "2026-11-01T12:05:57+00:00"}, {"v": 2, "action": "apply(61)", "ids": ["s", "a", "h", "g", "t", "i", "r", "s1", "a1", "h1", "g1", "t1", "i1", "r1", "s2", "a2", "h2", "g2", "t2", "i2", "r2", "s3", "a3", "h3", "g3", "t3", "r3", "s4", "a4", "g4", "h4", "s5", "h5", "g5", "g6", "s6", "h6", "g7", "s7", "h7", "g8", "h8", "s1a", "s2a", "s3a", "s4a", "s5a", "s1b", "s2b", "s3b", "s4b", "s5b", "s1c", "s2c", "s3c", "s5c", "s4->a3", "a3->h2", "s2a->g1", "s5->r1", "g5->r1"], "at": "2026-11-01T12:05:57+00:00"}, {"v": 3, "action": "add", "ids": ["i3"], "at": "2026-11-01T14:43:02+00:00"}, {"v": 4, "action": "add", "ids": ["i3a"], "at": "2026-11-01T14:43:02+00:00"}, {"v": 5, "action": "add", "ids": ["i3b"], "at": "2026-11-01T14:43:02+00:00"}];
+const SOURCE_MAP = {"i3": "github.com/joescoffee/ssdlc-mod/releases"};
 
 // 地圖式導覽：滾輪預設縮放（以游標為錨點），可切換為平移（觸控板雙指捲動慣用）
 let wheelMode = 'zoom';
